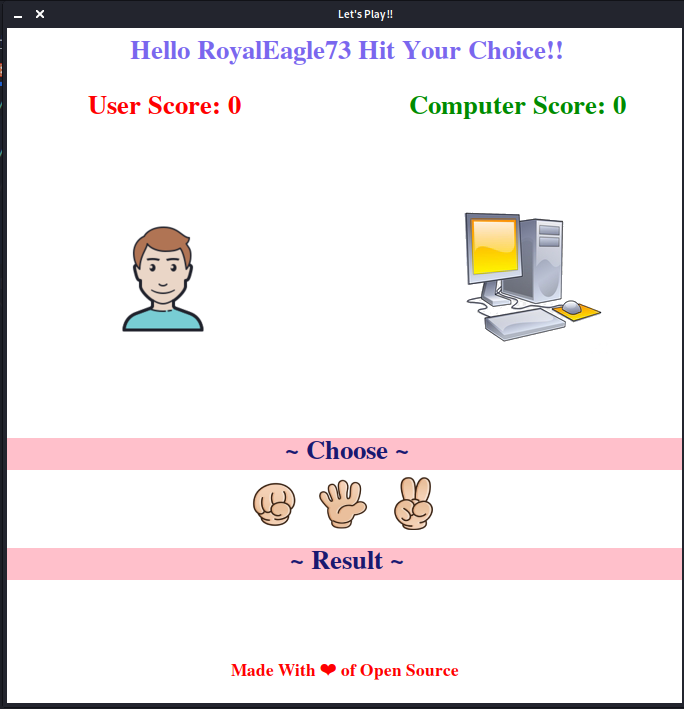
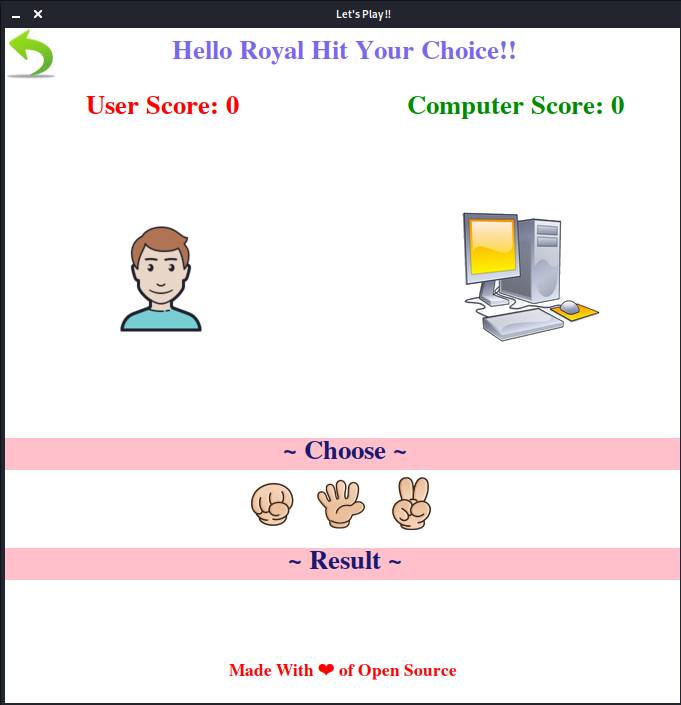
Did minor changes, changed screenshot with the newer one

diff --git a/main.py b/main.py
@@ -11,12 +11,12 @@ class rockPaperScissors:
 		self.con=sqlite3.Connection('Shivank.db')
 		self.cur=self.con.cursor()
 		self.root=Tk()
-		self.title = Label(self.root,text='Rock Paper Scissor',relief='ridge',font='times 30 bold',fg='midnight blue', bg="white",borderwidth=0,highlightthickness = 0)
+		self.title = Label(self.root,text='Rock Paper Scissor',relief='ridge',font='times 40 bold',fg='midnight blue', bg="white",borderwidth=0,highlightthickness = 0)
 		self.logo = PhotoImage(file='icons/logo.png')
 		self.logo_image = Label(self.root,image=self.logo, bg="white")
-		self.versionLabel = Label(self.root,text='( Ver 1.0 )',font='times 9 italic',bg='white', fg="VioletRed1")
-		self.nameLabel = Label(self.root,text='Enter Your Name Please :',font='times 10 bold',bg='white', fg="VioletRed3")
-		self.nameEntry = Entry(self.root,font='times 13 bold',bg='ivory',fg = "dark orange", width = 40)
+		self.versionLabel = Label(self.root,text='( Ver 1.0 )',font='times 13 italic',bg='white', fg="VioletRed1")
+		self.nameLabel = Label(self.root,text='Enter Your Name Please :',font='times 20 bold',bg='white', fg="VioletRed3")
+		self.nameEntry = Entry(self.root,font='times 15 bold',bg='ivory',fg = "dark orange", width = 40)
 		self.submitButton = None
 		self.openSourceLabel = None
 		self.scoreboardButton = None
@@ -42,14 +42,14 @@ class rockPaperScissors:
 		self.con.commit()
 
 	def createHomeWinodw(self):
-		self.title.place(x=30,y=180)
-		self.logo_image.place(x=250,y=10)
-		self.versionLabel.place(x=200,y=230, anchor=CENTER)
-		self.nameLabel.place(x=80,y=270, anchor=CENTER)
-		self.nameEntry.place(x=5,y=280, height=25)
-		self.openSourceLabel.place(x=80,y=400)
-		self.scoreboardButton.place(x=150,y=350)
-		self.submitButton.place(x=163,y=315)
+		self.title.place(x=110,y=320)
+		self.logo_image.place(x=180,y=0)
+		self.versionLabel.place(x=330,y=390, anchor=CENTER)
+		self.nameLabel.place(x=80,y=430, anchor=CENTER)
+		self.nameEntry.place(x=5,y=450, width=650,height=30)
+		self.openSourceLabel.place(x=210,y=620)
+		self.scoreboardButton.place(x=275,y=550)
+		self.submitButton.place(x=287,y=500)
 
 	def wipe(self):
 		self.title.place_forget()
@@ -63,9 +63,9 @@ class rockPaperScissors:
 		self.root.update()
 
 	def game(self):
-		self.submitButton = Button(self.root,text="SUBMIT",bg='misty rose',fg="blue4",height='1',width='4',command=self.fun)
+		self.submitButton = Button(self.root,text="SUBMIT",bg='misty rose',fg="blue4",height='1',width='6',command=self.fun)
 		self.openSourceLabel = Label(self.root,text='Made With '+ u"\u2764" + ' of Open Source',relief='ridge',font='times 13 bold',fg='red', bg="white",borderwidth=0,highlightthickness = 0)
-		self.scoreboardButton = Button(self.root,text='Scoreboard',bg='tomato',fg = "blue4",height='1',width='7',command=self.score)
+		self.scoreboardButton = Button(self.root,text='Scoreboard',bg='tomato',fg = "blue4",height='1',width='9',command=self.score)
 		self.createHomeWinodw()
 		## Changed Background
 		self.root.configure(bg="white")

diff --git a/database.py b/database.py
@@ -34,12 +34,12 @@ class showDatabase:
 			else:
 				color = "PaleTurquoise1"
 			if i < len(rows):
-				name,yscore,cscore = rows[i-1][0],rows[i-1][1],row[i-1][2]
+				name,yscore,cscore = rows[i-1][0],rows[i-1][1],rows[i-1][2]
 			else:
 				name,yscore,cscore = "Empty", "", ""
-			Label(self.root,text= str(name).center(20),borderwidth=1,bg=color,fg='black',font='Arial 20 bold').grid(row=i,column=1, sticky='ew')
-			Label(self.root,text=str(yscore).center(20),borderwidth=1,bg=color,fg='black',font='Arial 20 bold').grid(row=i,column=2, sticky='ew')
-			Label(self.root,text= str(cscore).center(20),borderwidth=1,bg=color,fg='black',font='Arial 20 bold').grid(row=i,column=3, sticky='ew')
+			Label(self.root,text= str(name).center(20),borderwidth=1,bg=color,fg='black',font='Arial 15').grid(row=i,column=1, sticky='ew')
+			Label(self.root,text=str(yscore).center(20),borderwidth=1,bg=color,fg='black',font='Arial 15').grid(row=i,column=2, sticky='ew')
+			Label(self.root,text= str(cscore).center(20),borderwidth=1,bg=color,fg='black',font='Arial 15').grid(row=i,column=3, sticky='ew')
 		
 		Button(self.root, text="Reset", bg="khaki1", fg="brown", command=self.delete).grid(row=19,column=2)
 		self.root.update()

diff --git a/game.py b/game.py
@@ -10,7 +10,7 @@ class playGame:
 		self.user_name = userName
 		self.scoreboard = scoring(conn)
 		self.user_score, self.comp_score = self.scoreboard.getScore(userName)
-		self.logo=PhotoImage(file='icons/logo.gif')
+		self.logo=PhotoImage(file='icons/logo.png')
 		self.iconRock = PhotoImage(file='icons/iconRock.png')
 		self.iconPaper = PhotoImage(file='icons/iconPaper.png')
 		self.iconScissors = PhotoImage(file='icons/iconScissors.png')
